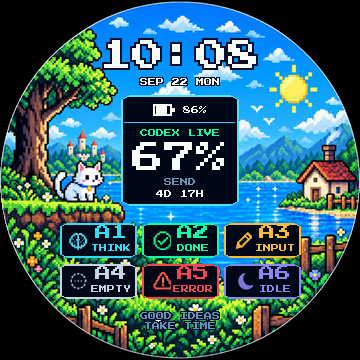
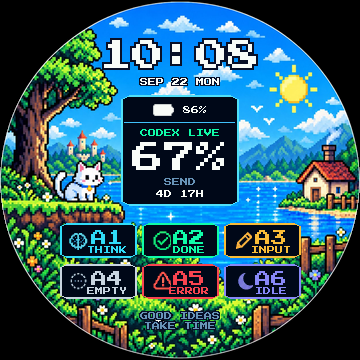
docs: add project overview and setup guide

diff --git a/README.md b/README.md
@@ -1,15 +1,123 @@
-# Codex Micro — Waveshare ESP32-S3-Touch-LCD-1.85B 移植版
+# Codex Micro for Waveshare ESP32-S3-Touch-LCD-1.85B
+
+![Codex Micro 像素仪表盘预览](tools/preview/pixel-day.png)
 
 把 [digitsisyph/codex-micro-stopwatch](https://github.com/digitsisyph/codex-micro-stopwatch)
-（原 M5Stack StopWatch Dev Kit C152 / "M5StopWatch" 固件）移植到
-**Waveshare ESP32-S3-Touch-LCD-1.85B**。
+移植到 **Waveshare ESP32-S3-Touch-LCD-1.85B** 的原生 ESP-IDF 固件。
+它把这块圆屏开发板变成 ChatGPT Desktop 的实体控制器：屏幕显示 Codex 状态、
+额度、智能体和电池信息，触摸与 BOOT 键负责发送、选择智能体、语音和麦克风操作。
 
-- 功能与 UI 参照：<https://docs.m5stack.com/zh_CN/core/StopWatch>
-- 目标板文档：<https://docs.waveshare.net/ESP32-S3-Touch-LCD-1.85B>
-- 工程形态：**原生 ESP-IDF v5.4.1 工程**（不是 PlatformIO）
+> 本项目是社区移植版，不是 OpenAI、M5Stack 或 Waveshare 的官方固件。
 
-设备仍然是 "Codex Micro"：只负责转发按键 / 摇杆意图、显示宿主下发的遥测，
-所有实际控制逻辑仍归 ChatGPT Desktop。
+相关资料：[上游项目](https://github.com/digitsisyph/codex-micro-stopwatch) ·
+[M5Stack StopWatch 文档](https://docs.m5stack.com/zh_CN/core/StopWatch) ·
+[Waveshare 1.85B 文档](https://docs.waveshare.net/ESP32-S3-Touch-LCD-1.85B)
+
+## 功能一览
+
+- **360 × 360 像素仪表盘**：日夜主题、时钟日期、额度环、6 个智能体状态、连接健康度与完成提示。
+- **ChatGPT Desktop 控制**：支持选择智能体、Send、四向滑动、Voice Chat 和 push-to-talk。
+- **BLE HID + 私有遥测协议**：兼容 Codex Micro 的 JSON-RPC 分片协议，并上报真实电量。
+- **网页配网**：首次启动自动开放 `CODEX-XXXX` 热点，通过手机或电脑浏览器写入 Wi-Fi。
+- **自动校时**：联网后通过 SNTP 获取时间，默认显示 UTC+8。
+- **电源状态识别**：读取 BQ27220 电量计，区分电池供电、外部供电和充电状态。
+- **完成提示音**：使用 ES8311 + I2S 播放任务完成提示。
+- **Windows 额度伴生程序**：读取本机 Codex 周额度，并通过 BLE 同步到表盘。
+- **离线 UI 预览与回归工具**：无需烧录即可生成日间、夜间、离线、配网等界面截图。
+
+## 快速开始
+
+### 1. 准备环境
+
+- Waveshare ESP32-S3-Touch-LCD-1.85B
+- ESP-IDF 5.4 或更高版本（本仓库当前按 **v5.4.1** 验证）
+- Python 3.10+
+- Windows 10/11 + ChatGPT Desktop（需要使用实体控制功能和额度同步时）
+
+仓库内的 `idf_env.bat` / `idf_env.sh` 使用的是当前开发机上的 ESP-IDF 路径。
+如果你的安装位置不同，请先修改其中的 `IDF_TOOLS_PATH`、`IDF_PATH` 和
+`IDF_PYTHON_ENV_PATH`。
+
+### 2. 编译与烧录
+
+Windows CMD 或 PowerShell：
+
+```powershell
+.\idf.bat build
+.\idf.bat -p COM5 flash monitor
+```
+
+Git Bash：
+
+```bash
+source ./idf_env.sh
+idf build
+idf -p COM5 flash monitor
+```
+
+将 `COM5` 替换为开发板的实际串口。若修改过 `sdkconfig.defaults`，请先删除旧的
+`sdkconfig`，再重新编译，让默认配置重新生效。
+
+### 3. 首次配置 Wi-Fi
+
+设备没有保存过 Wi-Fi，或连续连接失败时，会进入配网模式：
+
+1. 在手机或电脑上连接屏幕显示的开放热点 `CODEX-XXXX`；
+2. 浏览器打开 <http://192.168.4.1>；
+3. 选择 2.4 GHz Wi-Fi，填写密码并保存；
+4. 设备重启、联网并通过 SNTP 校时。
+
+凭据只保存在设备 NVS 中，不会写入源码或提交到仓库。
+
+### 4. 配对 Codex Micro
+
+1. 打开 Windows“设置 → 蓝牙和设备 → 添加设备”；
+2. 选择 **Codex Micro** 并完成配对；
+3. 启动 ChatGPT Desktop，等待设备状态由离线变为可用；
+4. 若旧固件曾与电脑配对，请先删除旧的 **Codex Micro** 记录再重新配对。
+
+设备连接后仍显示“操作受限”时，先查看[蓝牙快速排障](#71-蓝牙连上了但不能操作怎么办)，
+不要直接清除整片 Flash 或修改蓝牙地址。
+
+### 5. 同步 Codex 额度（Windows）
+
+先查出设备的实际 BLE 地址：
+
+```powershell
+python tools/ble_scan.py
+```
+
+验证本机额度读取，然后持续同步：
+
+```powershell
+python windows_companion.py --json-only -v
+python windows_companion.py --device-address 28:84:85:B2:1C:78 --watch --interval 60 -v
+```
+
+把示例地址替换为你的设备地址。伴生程序复用本机 Codex 登录态，不需要 OpenAI API Key，
+也不会把账号凭据发送到开发板。
+
+## 常用配置入口
+
+| 配置内容 | 文件 / 位置 | 默认值或说明 |
+| --- | --- | --- |
+| ESP-IDF、编译器与 Python 路径 | `idf_env.bat` / `idf_env.sh` | 当前开发机使用 ESP-IDF v5.4.1 |
+| Flash、PSRAM、蓝牙、任务栈 | `sdkconfig.defaults` | ESP32-S3R8、16 MB Flash、8 MB Octal PSRAM |
+| 屏幕、触摸、音频、按键引脚 | `main/board_config.h` | Waveshare 1.85B 官方 BSP 引脚映射 |
+| 时区与 NTP 服务器 | `main/wifi_time.cpp` | UTC+8；双 NTP 服务器 |
+| 亮度与自动息屏时间 | `main/main.cpp` | 电池：2 分钟变暗、5 分钟息屏；外部供电：10/30 分钟 |
+| BLE 加密与调试日志 | `main/codex_ble.cpp` | `CODEX_BLE_REQUIRE_ENCRYPTION`、`CODEX_BLE_TRACE` |
+| UI 布局、颜色和文案 | `main/dashboard_ui.h` | 360 × 360 圆屏布局 |
+| 日夜背景与电池图标 | `main/assets/`、`main/Backgrounds.h`、`main/BatteryIcons.h` | 由 `tools/make_*.py` 生成 |
+| 额度同步周期与重试 | `windows_companion.py` 命令行参数 | `--interval`、`--write-attempts`、`--write-timeout-ms` |
+
+生成所有离线预览：
+
+```powershell
+python tools/pixel_preview.py --scene all
+```
+
+下面是硬件、协议、实现和排障的完整说明。
 
 ---
 
